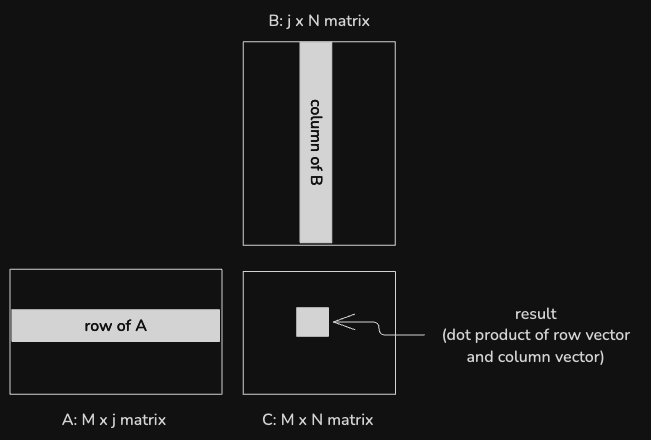
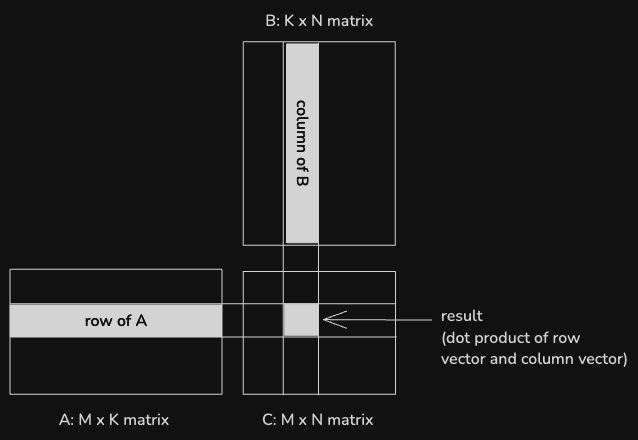
Address feedback. Test light/dark mode image.

diff --git a/custom-ops-matrix-multiplication/README.md b/custom-ops-matrix-multiplication/README.md
@@ -90,8 +90,8 @@ to produce a new matrix C.
 ![](images/matrix_multiplication_dark.png)
 
 Each value in the output matrix is the dot product of a row from A and a column 
-from B. In a worst case scenario, when multiplying an Mxj matrix by a jxN matrix,
-calculating one output value requires loading `2 * j` values and performing `j`
+from B. In a worst case scenario, when multiplying an MxK matrix by a KxN matrix,
+calculating one output value requires loading `2 * K` values and performing `K`
 floating-point multiplications.
 
 MAX already contains leading-edge implementations of matrix multiplications,
@@ -281,10 +281,13 @@ Shared memory on the GPU is far faster to access than global memory, so a next
 step is to rework the matrix multiplication to tile the computation and load
 values into shared memory. The input matrices A and B are loaded into shared 
 memory in tiles of size BM x BK and BK x BN, respectively. Within the tile, 
-values are accessed from shared memory, significantly reducing the data required 
-from global memory.
+values are accessed from shared memory, significantly reducing the memory access
+latency in between arithmetic operations.
 
-![](images/matrix_multiplication_tiled.png)
+<picture>
+  <source media="(prefers-color-scheme: dark)" srcset="./images/matrix_multiplication_tiled_dark.png">
+  <img src="./images/matrix_multiplication_tiled.png">
+</picture>
 
 This version corresponds to "Kernel 3: Shared Memory Cache-Blocking" in Simon's 
 blog post.
@@ -297,12 +300,12 @@ The `LayoutTensor` `tile()` method provides a view to one tile of a tensor, and 
 serves multiple purposes here.
 
 The `dst` value is a view of the chunk of the output tensor that the current
-block is responsible for generating. `dst` is a 32x32 chunk of the output tensor, 
-but instead of the 32x32 blocks used for previous kernels, this kernel is invoked
-with a one-dimensional block of 32*32 threads. The threads are mapped onto the 
-output values in row-major order, like this:
+block is responsible for generating. `dst` is a 32x32 chunk of the output
+tensor, but instead of the 32x32 thread blocks used for previous kernels, this
+kernel is invoked with a one-dimensional thread block of 32*32 threads. The
+threads are mapped onto the output values in row-major order, like this:
 
-![](images/tiled_dst_tile.png)
+![](images/tiled_dst_tile_dark.png)
 
 As in the previous example, accessing memory in this order is more efficient for the GPU, since it can coalesce adjacent memory accesses for adjacent threads in the same warp.
 
